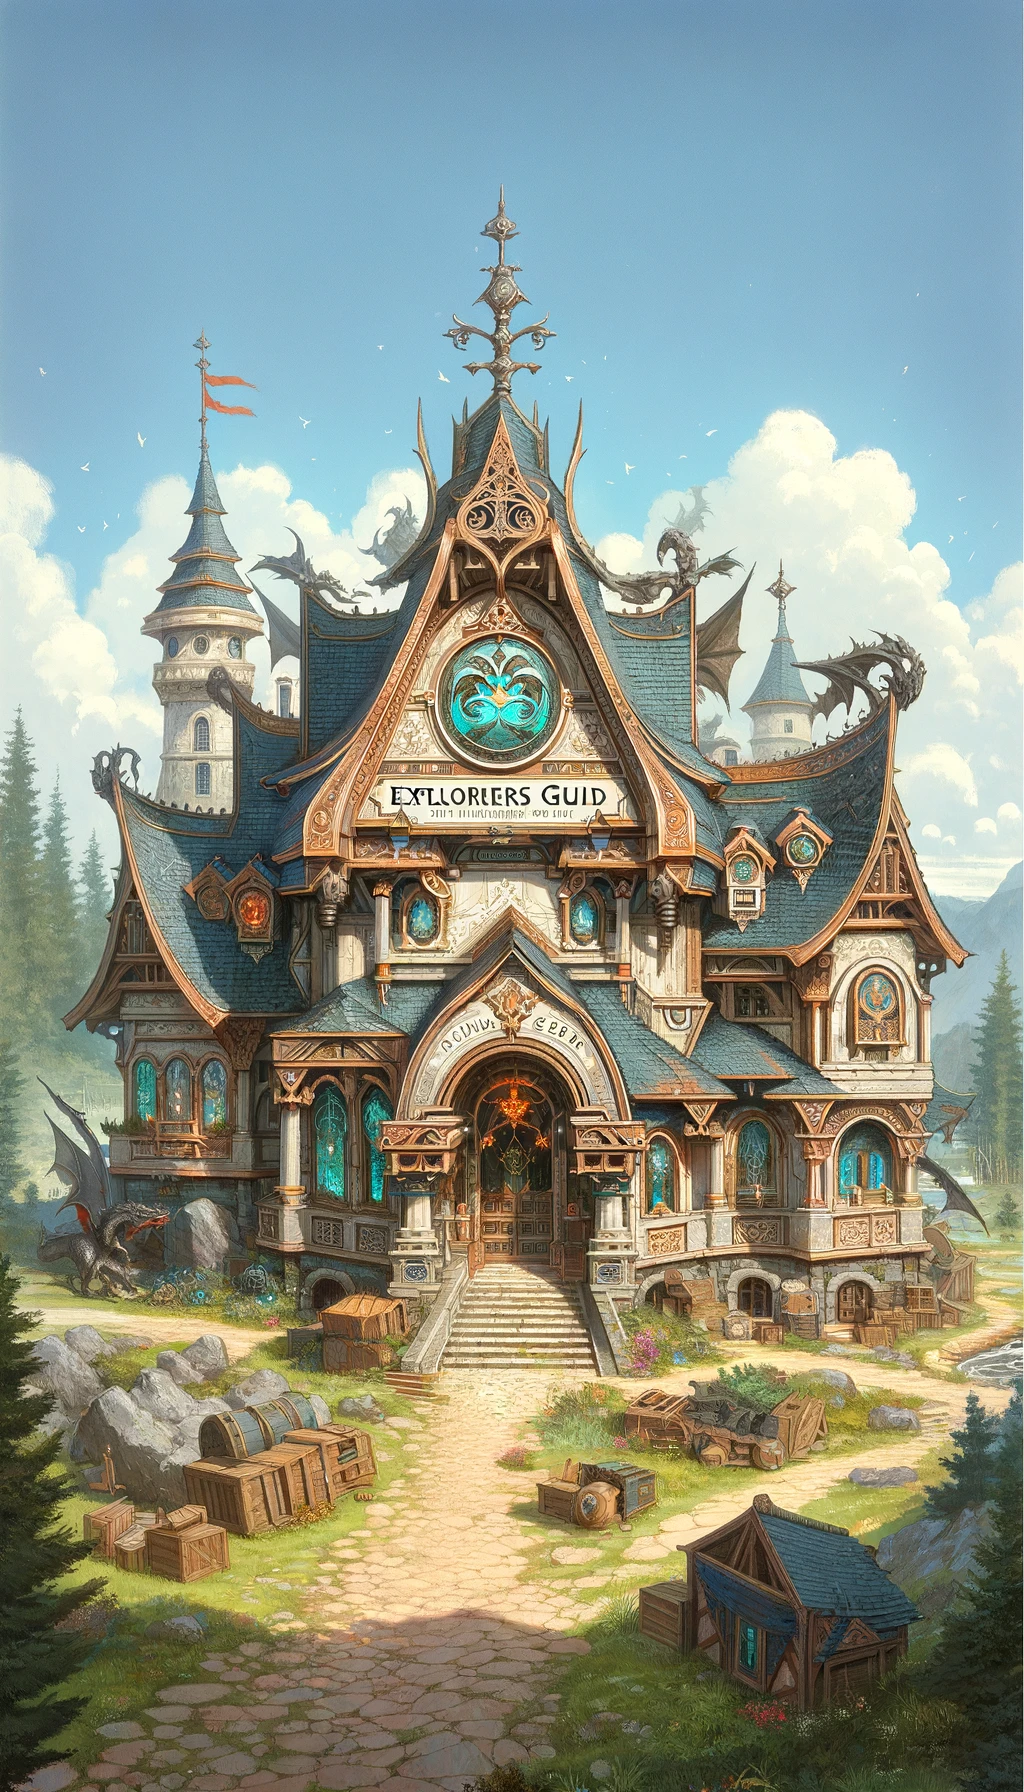
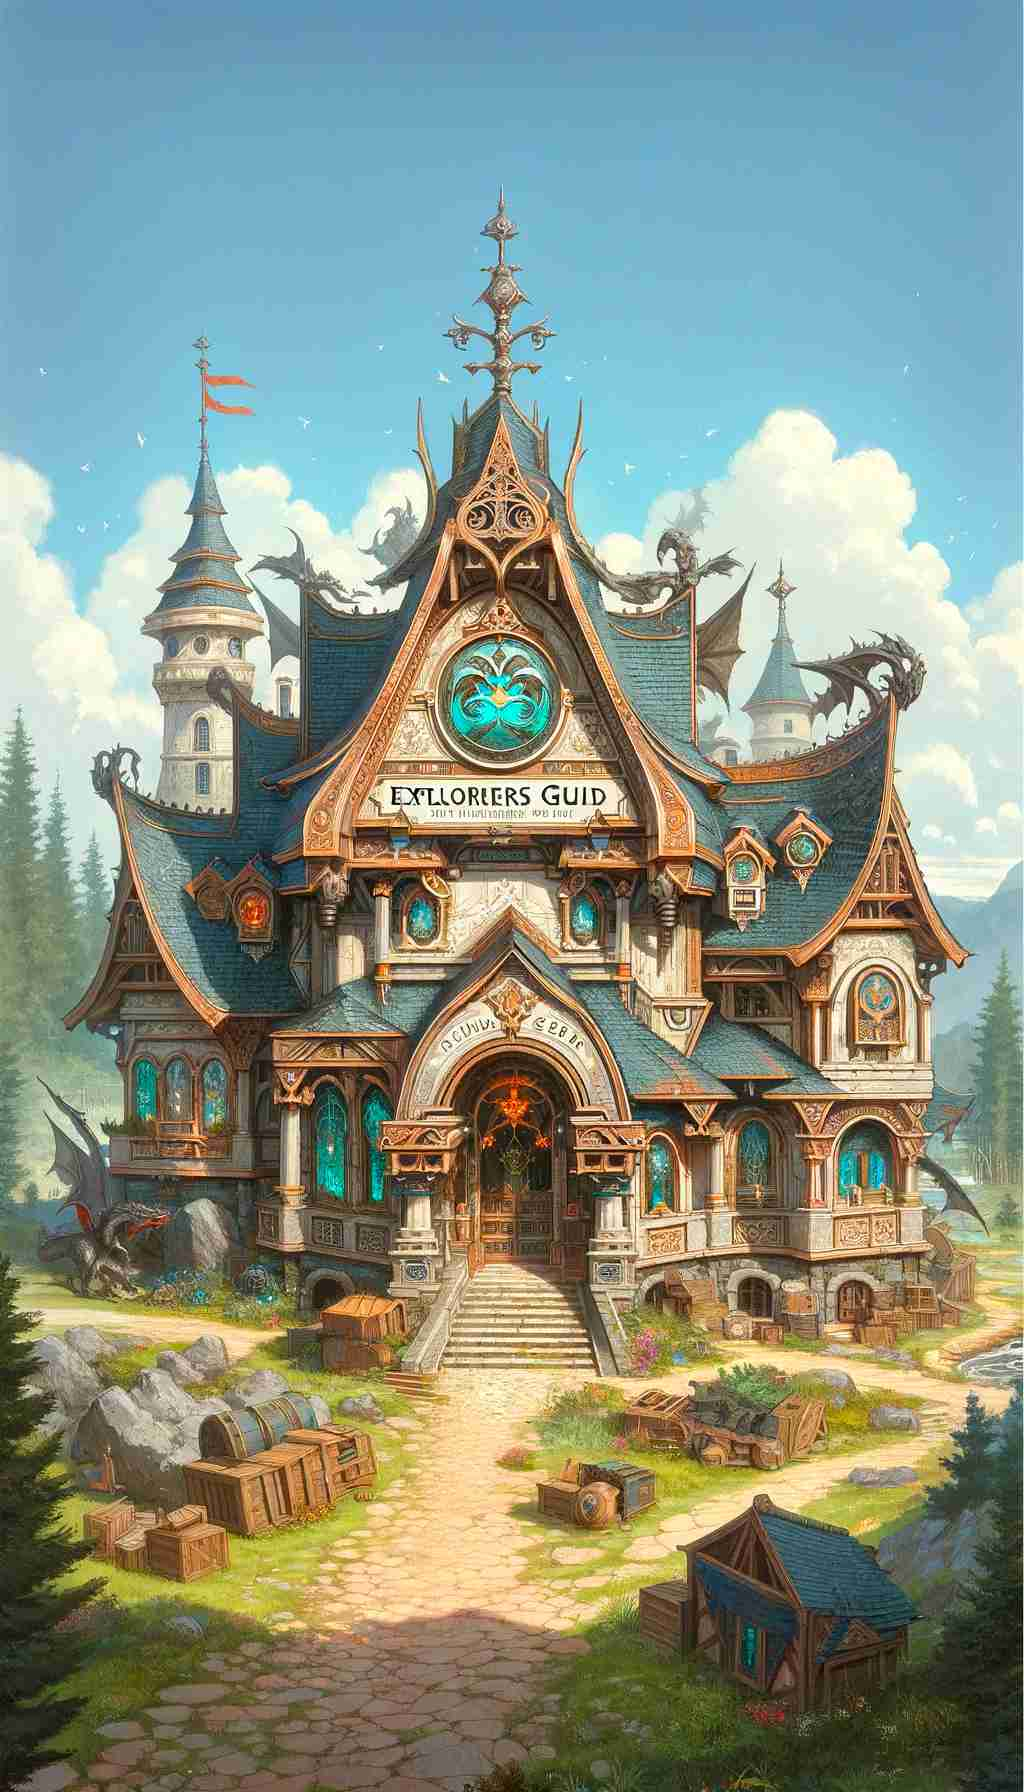
fix: fix image height + compress images

diff --git a/client/src/components/cityview/realm/labor/LaborBuild.tsx b/client/src/components/cityview/realm/labor/LaborBuild.tsx
@@ -318,7 +318,7 @@ export const LaborBuildPopup = ({ resourceId, setBuildLoadingStates, onClose }: 
           <div className="mr-0.5">Build Labor:</div>
         </div>
       </SecondaryPopup.Head>
-      <SecondaryPopup.Body withWrapper width={"376px"} height={"476px"}>
+      <SecondaryPopup.Body withWrapper width={"376px"}>
         <div className="flex flex-col items-center p-2">
           <Headline>Produce More {resourceInfo?.trait}</Headline>
           <div className="relative flex justify-between w-full mt-1 text-xs text-lightest">
@@ -384,18 +384,18 @@ export const LaborBuildPopup = ({ resourceId, setBuildLoadingStates, onClose }: 
           )}
           <div className={clsx("relative w-full", isFood ? "mt-2" : "mt-2")}>
             {resourceId === 254 && (
-              <img src={`/images/buildings/farm.png`} className="object-cover w-full h-full rounded-[10px]" />
+              <img src={`/images/buildings/farm.png`} className="object-cover w-full h-full rounded-[10px] h-[340px]" />
             )}
             {resourceId === 255 && (
               <img
                 src={`/images/buildings/fishing_village.png`}
-                className="object-cover w-full h-full rounded-[10px]"
+                className="object-cover w-full h-full rounded-[10px] h-[340px]"
               />
             )}
             {!isFood && (
               <img
                 src={`/images/resource_buildings/${resourceId}.png`}
-                className="object-cover w-full h-full rounded-[10px]"
+                className="object-cover w-full h-full rounded-[10px] h-[340px]"
               />
             )}
             <div className="absolute top-2 left-2 bg-black/90 rounded-[10px] p-3 pb-6 hover:bg-black">

diff --git a/client/src/elements/TimeoutImage.tsx b/client/src/elements/TimeoutImage.tsx
@@ -1,0 +1,63 @@
+import React, { useEffect, useState } from "react";
+
+export type TimeoutImageProps = {
+  image: string;
+  alt?: string;
+  imageStyleClass?: string;
+  divStyleClass?: string;
+  bgColor?: string;
+};
+
+const TimeoutImage = ({
+  image,
+  alt = "",
+  imageStyleClass = "",
+  divStyleClass = "",
+  bgColor = "transparent",
+}: TimeoutImageProps) => {
+  const [currentImage, setCurrentImage] = useState<string | null>(null);
+  const [loading, setLoading] = useState(true);
+
+  const fetchImage = (src: string) => {
+    const loadingImage = new Image();
+    loadingImage.src = src;
+    loadingImage.onload = () => {
+      setTimeout(() => {
+        setCurrentImage(loadingImage.src);
+        setLoading(false);
+      }, 2000);
+    };
+  };
+
+  useEffect(() => {
+    fetchImage(image);
+  }, []);
+
+  return (
+    <div className={divStyleClass} style={{ overflow: "hidden" }}>
+      {currentImage && (
+        <img
+          style={{
+            width: "100%",
+            background: bgColor,
+          }}
+          src={currentImage}
+          alt={alt}
+          className={imageStyleClass}
+        />
+      )}
+      {!currentImage && (
+        <img
+          style={{
+            width: "100%",
+            background: bgColor,
+          }}
+          alt={alt}
+          className={imageStyleClass}
+        />
+      )}
+    </div>
+  );
+};
+
+export default TimeoutImage;

diff --git a/client/src/components/cityview/realm/buildings/labor/LaborBuilding.tsx b/client/src/components/cityview/realm/buildings/labor/LaborBuilding.tsx
@@ -62,10 +62,12 @@ export const LaborBuilding = ({
 
   return (
     <div className={clsx("flex flex-1 w-full", props.className)}>
-      <img
-        src={`/images/buildings/${Guilds[guild - 1]?.toLowerCase()}-building.png`}
-        className="object-cover rounded-md w-[107px] h-[230px]"
-      />
+      <div className="w-[160px] h-[230px] overflow-hidden">
+        <img
+          src={`/images/buildings/${Guilds[guild - 1]?.toLowerCase()}-building.png`}
+          className="object-cover rounded-md w-[107px] h-[230px]"
+        />
+      </div>
       <div className="flex flex-col w-full min-w-[244px] h-full ml-2">
         <div className="flex flex-row mb-2 justify-between">
           <div className="flex flex-row">

diff --git a/client/src/components/cityview/realm/combat/HealPopup.tsx b/client/src/components/cityview/realm/combat/HealPopup.tsx
@@ -74,7 +74,7 @@ export const HealPopup = ({ selectedRaider, onClose }: HealPopupProps) => {
         <div className="flex flex-col items-center p-2">
           <Headline>Heal Units</Headline>
           <div className={"relative w-full mt-3"}>
-            <img src={`/images/units/troop-heal.png`} className="object-cover w-full h-full rounded-[10px]" />
+            <img src={`/images/units/troop-heal.png`} className="object-cover w-full h-full rounded-[10px] h-[340px]" />
             <div className="flex flex-col p-2 absolute left-2 bottom-2 rounded-[10px] bg-black/60">
               <div className="mb-1 ml-1 italic text-light-pink text-xxs">Price:</div>
               <div className="grid grid-cols-4 gap-2">

diff --git a/client/src/components/cityview/realm/combat/raids/CreateRaidersPopup.tsx b/client/src/components/cityview/realm/combat/raids/CreateRaidersPopup.tsx
@@ -130,7 +130,7 @@ export const CreateRaidersPopup = ({ onClose }: CreateRaidersPopupProps) => {
             <div className="flex items-center">{totalHealth} HP</div>
           </div>
           <div className={"relative w-full mt-3"}>
-            <img src={`/images/units/troop.png`} className="object-cover w-full h-full rounded-[10px]" />
+            <img src={`/images/units/troop.png`} className="object-cover w-full h-[340px] rounded-[10px]" />
             <div className="flex absolute flex-col p-2 left-2 bottom-2 rounded-[10px] bg-black/60">
               <div className="mb-1 ml-1 italic text-light-pink text-xxs">Price:</div>
               <div className="grid grid-cols-4 gap-2">

diff --git a/client/src/components/cityview/realm/combat/raids/MergeNewSoldiersPanel.tsx b/client/src/components/cityview/realm/combat/raids/MergeNewSoldiersPanel.tsx
@@ -138,7 +138,7 @@ export const MergeNewSoldiersPanel = ({ isDefence, selectedRaider, onClose }: Me
           <div className="flex items-center">{totalHealth} HP</div>
         </div>
         <div className={"relative w-full mt-3"}>
-          <img src={`/images/units/troop.png`} className="object-cover w-full h-full rounded-[10px]" />
+          <img src={`/images/units/troop.png`} className="object-cover w-full h-full h-[340px] rounded-[10px]" />
           <div className="flex absolute flex-col p-2 left-2 bottom-2 rounded-[10px] bg-black/60">
             <div className="mb-1 ml-1 italic text-light-pink text-xxs">Price:</div>
             <div className="grid grid-cols-4 gap-2">

diff --git a/client/src/components/cityview/realm/leveling/LevelingPopup.tsx b/client/src/components/cityview/realm/leveling/LevelingPopup.tsx
@@ -96,7 +96,7 @@ export const LevelingPopup = ({ onClose }: LevelingPopupProps) => {
           <div className={"relative w-full mt-3"}>
             <img
               src={`/images/levels/tier${newLevel > 3 ? 3 : newLevel}.png`}
-              className="object-cover w-full h-full rounded-[10px]"
+              className="object-cover w-full h-full rounded-[10px] h-[340px]"
             />
             <div className="flex flex-col p-2 absolute left-2 bottom-2 right-2 rounded-[10px] bg-black/90">
               <div className="mb-1 ml-1 italic text-light-pink text-xxs">Price:</div>

diff --git a/client/src/components/cityview/realm/buildings/labor/LaborResourceBuildPopup.tsx b/client/src/components/cityview/realm/buildings/labor/LaborResourceBuildPopup.tsx
@@ -289,7 +289,7 @@ export const LaborResourceBuildPopup = ({ guild, resourceId, onClose }: LaborRes
           <div className={clsx("relative w-full", isFood ? "mt-2" : "mt-2")}>
             <img
               src={`/images/units/${Guilds[guild - 1]?.toLowerCase()}.png`}
-              className="object-cover w-full h-full rounded-[10px]"
+              className="object-cover w-full h-full rounded-[10px] h-[340px]"
             />
             <div className="absolute top-2 left-2 bg-black/90 rounded-[10px] p-3 pb-6 hover:bg-black">
               <LaborAuction />
